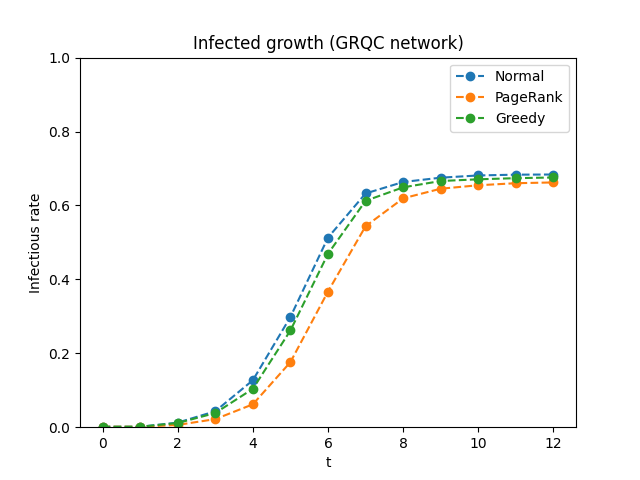
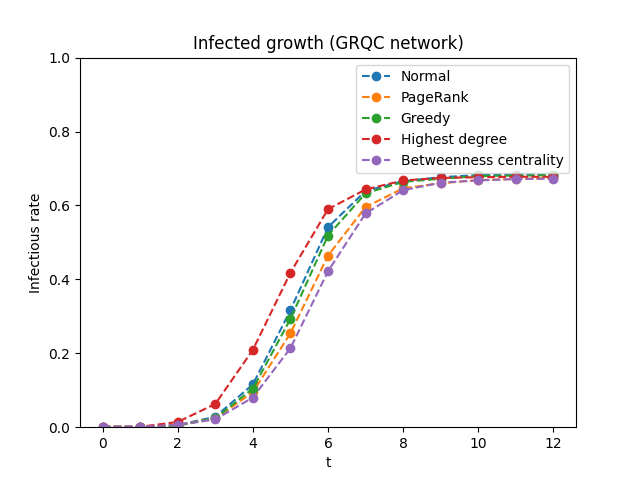
update

Changed region(s): [[0.1562, 0.125, 0.875, 0.9062], [0.5625, 0.125, 0.5938, 0.25], [0.5625, 0.2812, 0.5938, 0.3438]]

diff --git a/src/sis.py b/src/sis.py
@@ -33,6 +33,9 @@ def add_random_infected(G, n):
     return S
 
 def add_cluster_infected(G, n):
+    """
+    Add a cluster of n nodes infected
+    """
     i = 0
     nodes = list(G.nodes)
     S = []
@@ -132,6 +135,9 @@ def run_sis(G, beta, gamma, t_max, start_sus, start_inf):
     return infs
 
 def run_k_sis(G, beta, gamma, t_max, start_sus, start_inf, k):
+    """
+    Run k simulation of SIS model and compute the average of infected nodes over time
+    """
     infs = []
     mean = []
     for i in tqdm(range(k), ):
@@ -146,7 +152,7 @@ def run_k_sis(G, beta, gamma, t_max, start_sus, start_inf, k):
 
 def run_fast_sis(G, beta, gamma):
     """
-    Run a simulation of a SIS model
+    Run a simulation of a SIS model for the computation of V
     """
     G = nx.convert_node_labels_to_integers(G)
     S = [node[0] for node in G.nodes(data=True) if node[1]["state"] == 'I']
@@ -172,15 +178,24 @@ def run_fast_sis(G, beta, gamma):
     return inf
 
 def run_sim(G, n_inf, n_vac, beta, gamma, t_max, file, plt_title, folder="images", k=100, cluster=False):
+    """
+    Run simulation with differents vaccinations algorithm
+    """
     n = len(list(G.nodes))
     G_pg = immun.immun_page_rank(G, n_vac)
+    G_hg = immun.immun_high_degree(G, n_vac)
+    G_bc = immun.immun_betweenness_centrality(G, n_vac)
 
     if cluster:
         S = add_cluster_infected(G, n_inf)
         add_cluster_infected(G_pg, n_inf)
+        add_cluster_infected(G_hg, n_inf)
+        add_cluster_infected(G_bc, n_inf)
     else:
         S = add_random_infected(G, n_inf)
         add_random_infected(G_pg, n_inf)
+        add_random_infected(G_hg, n_inf)
+        add_random_infected(G_bc, n_inf)
 
     G_gr, _ = gr.greedy_algorithm(G.copy(), S, n_vac, beta, gamma)
 
@@ -188,17 +203,65 @@ def run_sim(G, n_inf, n_vac, beta, gamma, t_max, file, plt_title, folder="images
     print_g_sis_carac(G)
     print_g_sis_carac(G_gr, name="G_GR")
     print_g_sis_carac(G_pg, name="G_PG")
+    print_g_sis_carac(G_hg, name="G_PG")
+    print_g_sis_carac(G_bc, name="G_PG")
 
     G_states = run_k_sis(G, beta, gamma, t_max, start_sus=n-n_inf-n_vac, start_inf=n_inf, k=k)
     G_pg_states = run_k_sis(G_pg, beta, gamma, t_max, start_sus=n-n_inf-n_vac, start_inf=n_inf, k=k)
     G_gr_states = run_k_sis(G_gr, beta, gamma, t_max, start_sus=n-n_inf-n_vac, start_inf=n_inf, k=k)
+    G_hg_states = run_k_sis(G_hg, beta, gamma, t_max, start_sus=n-n_inf-n_vac, start_inf=n_inf, k=k)
+    G_bc_states = run_k_sis(G_bc, beta, gamma, t_max, start_sus=n-n_inf-n_vac, start_inf=n_inf, k=k)
     
     print(G_states)
     print(G_pg_states)
     print(G_gr_states)
+    print(G_hg_states)
+    print(G_bc_states)
 
-    plot_infected_grow([G_states, G_pg_states, G_gr_states],
-                       ["Normal", "PageRank", "Greedy"],
+    plot_infected_grow([G_states, G_pg_states, G_gr_states, G_hg_states, G_bc_states],
+                       ["Normal", "PageRank", "Greedy", "Highest degree", "Betweenness centrality"],
+                       n,
+                       file=file,
+                       plt_title=plt_title,
+                       folder=folder)
+    
+def run_sim_without_betweenness(G, n_inf, n_vac, beta, gamma, t_max, file, plt_title, folder="images", k=100, cluster=False):
+    """
+    Run simulation with differents vaccinations algorithm (without betweenness)
+    """
+    n = len(list(G.nodes))
+    G_pg = immun.immun_page_rank(G, n_vac)
+    G_hg = immun.immun_high_degree(G, n_vac)
+
+    if cluster:
+        S = add_cluster_infected(G, n_inf)
+        add_cluster_infected(G_pg, n_inf)
+        add_cluster_infected(G_hg, n_inf)
+    else:
+        S = add_random_infected(G, n_inf)
+        add_random_infected(G_pg, n_inf)
+        add_random_infected(G_hg, n_inf)
+
+    G_gr, _ = gr.greedy_algorithm(G.copy(), S, n_vac, beta, gamma)
+
+    utils.print_g_carac(G)
+    print_g_sis_carac(G)
+    print_g_sis_carac(G_gr, name="G_GR")
+    print_g_sis_carac(G_pg, name="G_PG")
+    print_g_sis_carac(G_hg, name="G_PG")
+
+    G_states = run_k_sis(G, beta, gamma, t_max, start_sus=n-n_inf-n_vac, start_inf=n_inf, k=k)
+    G_pg_states = run_k_sis(G_pg, beta, gamma, t_max, start_sus=n-n_inf-n_vac, start_inf=n_inf, k=k)
+    G_gr_states = run_k_sis(G_gr, beta, gamma, t_max, start_sus=n-n_inf-n_vac, start_inf=n_inf, k=k)
+    G_hg_states = run_k_sis(G_hg, beta, gamma, t_max, start_sus=n-n_inf-n_vac, start_inf=n_inf, k=k)
+    
+    print(G_states)
+    print(G_pg_states)
+    print(G_gr_states)
+    print(G_hg_states)
+
+    plot_infected_grow([G_states, G_pg_states, G_gr_states, G_hg_states],
+                       ["Normal", "PageRank", "Greedy", "Highest degree"],
                        n,
                        file=file,
                        plt_title=plt_title,

diff --git a/main.py b/main.py
@@ -13,28 +13,44 @@ beta = 0.8
 gamma = 0.4
 t_max = 12
 n_inf = 5
-n_vac = 25
+n_vac = 10
 
-print("Barabasi-Albert graph ...")
-print("Get graph ...")
-BA = sis.generate_barabasi_albert_graph(n, m, 10)
-print("Run simulation without cluster ...")
-sis.run_sim(BA, n_inf, n_vac, beta, gamma, t_max, "ba", "Infected growth (Barabasi-Albert graph)", cluster=False)
-print("Run simulation with cluster ...")
-sis.run_sim(BA, n_inf, n_vac, beta, gamma, t_max, "ba_clust", "Infected growth (Barabasi-Albert graph)", cluster=True)
+# print("Barabasi-Albert graph ...")
+# print("Get graph ...")
+# BA = sis.generate_barabasi_albert_graph(n, m, 10)
+# print("Run simulation without cluster ...")
+# sis.run_sim(BA, n_inf, n_vac, beta, gamma, t_max, "ba", "Infected growth (Barabasi-Albert graph)", cluster=False)
+# print("Run simulation with cluster ...")
+# sis.run_sim(BA, n_inf, n_vac, beta, gamma, t_max, "ba_clust", "Infected growth (Barabasi-Albert graph)", cluster=True)
 
-print("GRQC network ...")
-print("Get graph ...")
-GRQC = data.get_graph("graph/GRTQC.txt")
-print("Run simulation without cluster ...")
-sis.run_sim(GRQC, n_inf, n_vac, beta, gamma, t_max, "grqc", "Infected growth (GRQC network)", cluster=False)
-print("Run simulation with cluster ...")
-sis.run_sim(GRQC, n_inf, n_vac, beta, gamma, t_max, "grqc_clust", "Infected growth (GRQC network)", cluster=True)
+# print("GRQC network ...")
+# print("Get graph ...")
+# GRQC = data.get_graph("graph/grqc.txt")
+# print("Run simulation without cluster ...")
+# sis.run_sim(GRQC, n_inf, n_vac, beta, gamma, t_max, "grqc", "Infected growth (GRQC network)", cluster=False)
+# print("Run simulation with cluster ...")
+# sis.run_sim(GRQC, n_inf, n_vac, beta, gamma, t_max, "grqc_clust", "Infected growth (GRQC network)", cluster=True)
 
 # print("HepTH network ...")
 # print("Get graph ...")
 # HEPTH = data.get_graph("graph/HepTh.txt")
 # print("Run simulation without cluster ...")
-# sis.run_sim(HEPTH, n_inf, n_vac, beta, gamma, t_max, "hepth", "Infected growth (HEPTH-Albert network)", cluster=False)
+# sis.run_sim_without_betweenness(HEPTH, n_inf, n_vac, beta, gamma, t_max, "hepth", "Infected growth (HEPTH network)", cluster=False)
 # print("Run simulation with cluster ...")
-# sis.run_sim(HEPTH, n_inf, n_vac, beta, gamma, t_max, "hepth_clust", "Infected growth (HEPTH-Albert network)", cluster=True)
+# sis.run_sim_without_betweenness(HEPTH, n_inf, n_vac, beta, gamma, t_max, "hepth_clust", "Infected growth (HEPTH network)", cluster=True)
+
+print("Deezer network ...")
+print("Get graph ...")
+deezer = data.get_graph("graph/deezer.txt", sep=",") 
+print("Run simulation without cluster ...")
+sis.run_sim_without_betweenness(deezer, n_inf, n_vac, beta, gamma, t_max, "deezer", "Infected growth (Deezer network)", cluster=False)
+print("Run simulation with cluster ...")
+sis.run_sim_without_betweenness(deezer, n_inf, n_vac, beta, gamma, t_max, "deezer_clust", "Infected growth (Deezer network)", cluster=True)
+
+print("enron network ...")
+print("Get graph ...")
+enron = data.get_graph("graph/enron.txt")
+print("Run simulation without cluster ...")
+sis.run_sim_without_betweenness(enron, n_inf, n_vac, beta, gamma, t_max, "enron", "Infected growth (Enron network)", cluster=False)
+print("Run simulation with cluster ...")
+sis.run_sim_without_betweenness(enron, n_inf, n_vac, beta, gamma, t_max, "enron_clust", "Infected growth (Enron network)", cluster=True)

diff --git a/src/greedy.py b/src/greedy.py
@@ -16,9 +16,15 @@ def get_not_infected_nodes(G):
     return not_infected_nodes
 
 def get_neighbourhood_subgraph(G, node, k):
+    """
+    Returns induced subgraph of neighbors centered at node within a given radius k.
+    """
     return nx.ego_graph(G, node, radius=k)
 
 def get_subgraph(G, infected_nodes, k):
+    """
+    Get a subgraph of neighbors centered at infected nodes
+    """
     subgraph = get_neighbourhood_subgraph(G, infected_nodes[0], k)
     nodes = set()
     for node in infected_nodes[1:]:
@@ -38,7 +44,7 @@ def greedy_algorithm(G, infected_nodes, n_vac, beta, gamma):
     """
     """
     W = []
-    GW, not_inf_vac_nodes = get_subgraph(G, infected_nodes, 2)
+    GW, not_inf_vac_nodes = get_subgraph(G, infected_nodes, 1)
     for _ in range(n_vac):
         delta_W_u = []
         VW = V(GW, beta, gamma, infected_nodes)
@@ -53,16 +59,3 @@ def greedy_algorithm(G, infected_nodes, n_vac, beta, gamma):
         GW.nodes[best_node]["state"] = 'V'
         G.nodes[best_node]["state"] = 'V'
     return G, W
-            
-
-# def loop(param):
-#     node, GW, beta, gamma = param
-#     node = not_inf_vac_nodes[i]
-#     VWp = V(GW, beta, gamma, node)
-#     delta_W_u.append((node, VW - VWp))
-#     GW.nodes[node]["state"] = 'S'
-
-#     args = [(G, beta, gamma) for _ in range(R)]
-#     with multiprocessing.Pool(multiprocessing.cpu_count()) as p:
-#         results = p.map(sis.run_fast_sis_parallel, args)
-#     return np.mean(results)

diff --git a/src/immun.py b/src/immun.py
@@ -1,6 +1,9 @@
 import networkx as nx
 
 def immun_high_degree(G, n):
+    """
+    Add vaccinated node with highest degree
+    """
     Gc = G.copy()
     degs = list(Gc.degree)
     degs = sorted(degs, key=lambda x: x[1], reverse=True)[:n]
@@ -9,6 +12,9 @@ def immun_high_degree(G, n):
     return Gc
 
 def immun_page_rank(G, n):
+    """
+    Add vaccinated node with highest PageRank
+    """
     Gc = G.copy()
     weights = nx.pagerank(Gc)
     pg = sorted(weights.items(), key=lambda x: x[1], reverse=True)[:n]
@@ -17,6 +23,9 @@ def immun_page_rank(G, n):
     return Gc
 
 def immun_betweenness_centrality(G, n):
+    """
+    Add vaccinated node with highest betweenness centrality
+    """
     Gc = G.copy()
     centrality = nx.betweenness_centrality(Gc)
     top_nodes = sorted(centrality.items(), key=lambda x: x[1], reverse=True)[:n]

diff --git a/src/data.py b/src/data.py
@@ -4,8 +4,8 @@ import networkx as nx
 
 def get_graph(filename, sep="\t"):
     """
-    Get edges data from a file. Remove self-loop and select
-    the biggest connected component 
+    Get edges data from a file
+    Remove self-loop and select the biggest connected component 
     """
     grqc = pd.read_csv(filename, sep=sep, header=None)
 
@@ -19,8 +19,6 @@ def get_graph(filename, sep="\t"):
         G.nodes[node]["state"] = 'S'
     
     Gcc = sorted(nx.connected_components(G), key=len, reverse=True)
-    for a in nx.connected_components(G):
-        print(len(a))
     G = G.subgraph(Gcc[0])
     G = nx.convert_node_labels_to_integers(G)
 
